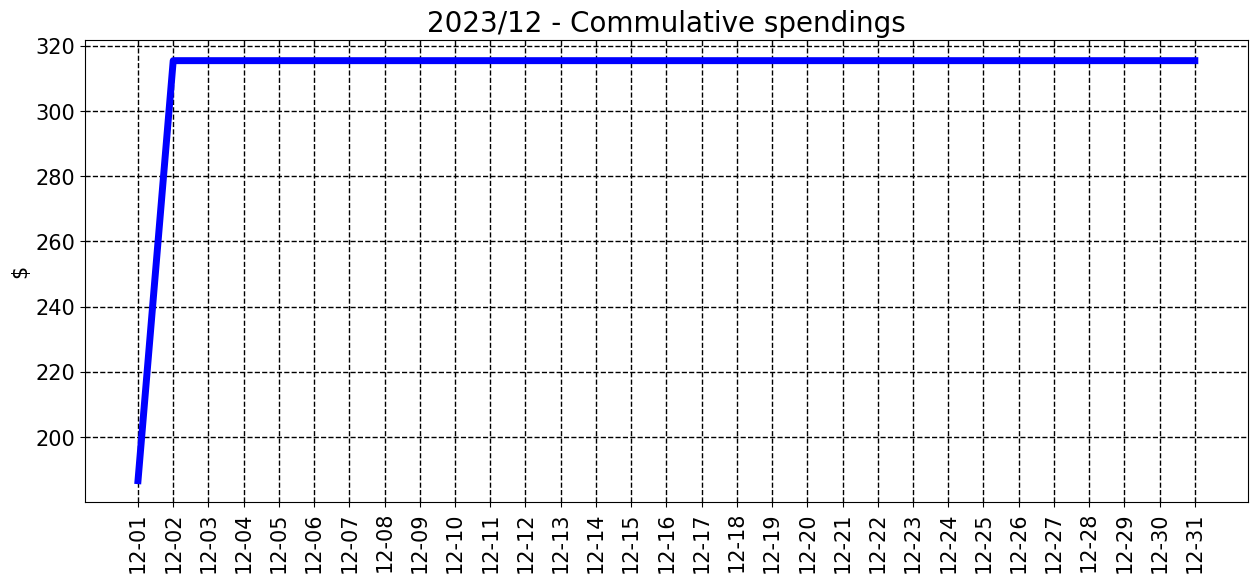
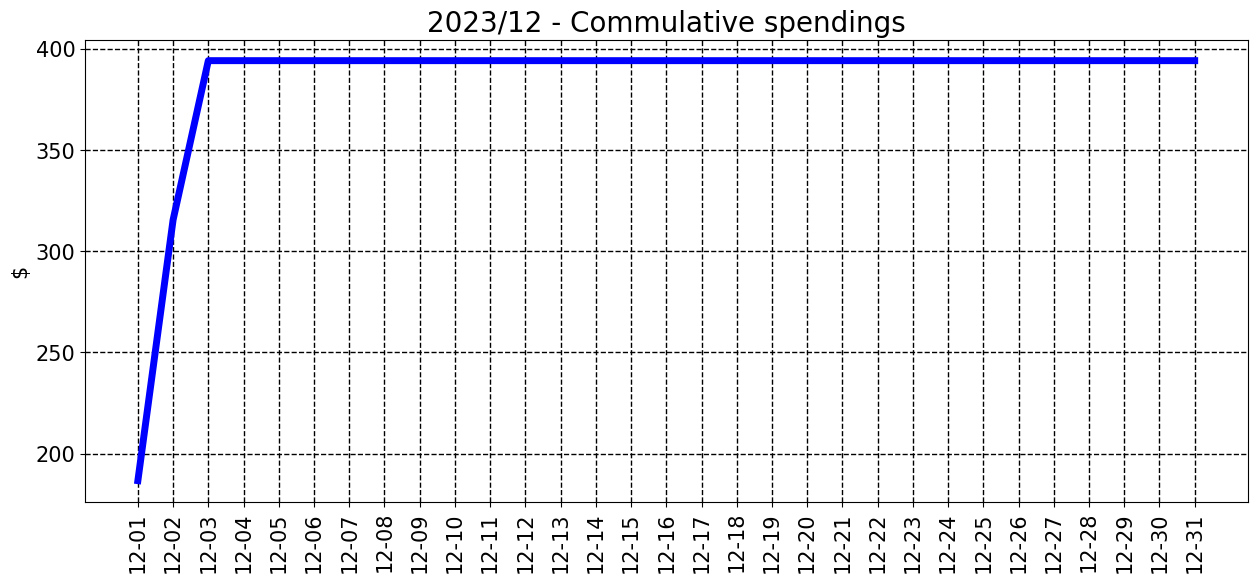
commit from python

diff --git a/README.md b/README.md
@@ -7,7 +7,7 @@ __________________________________
 <sub><sup>
 | Spent | Avg daily | End of month projection | Spent since 2023/7 |
 |---|---|---|---|
-| $315.0  |  $105.1  | $3258.0  |  $27886.0  |
+| $394.0  |  $131.4  | $4073.0  |  $27964.0  |
 </sub></sup>
 __________________________________
 ![graph_12_sum](graph_12_sum.png)
